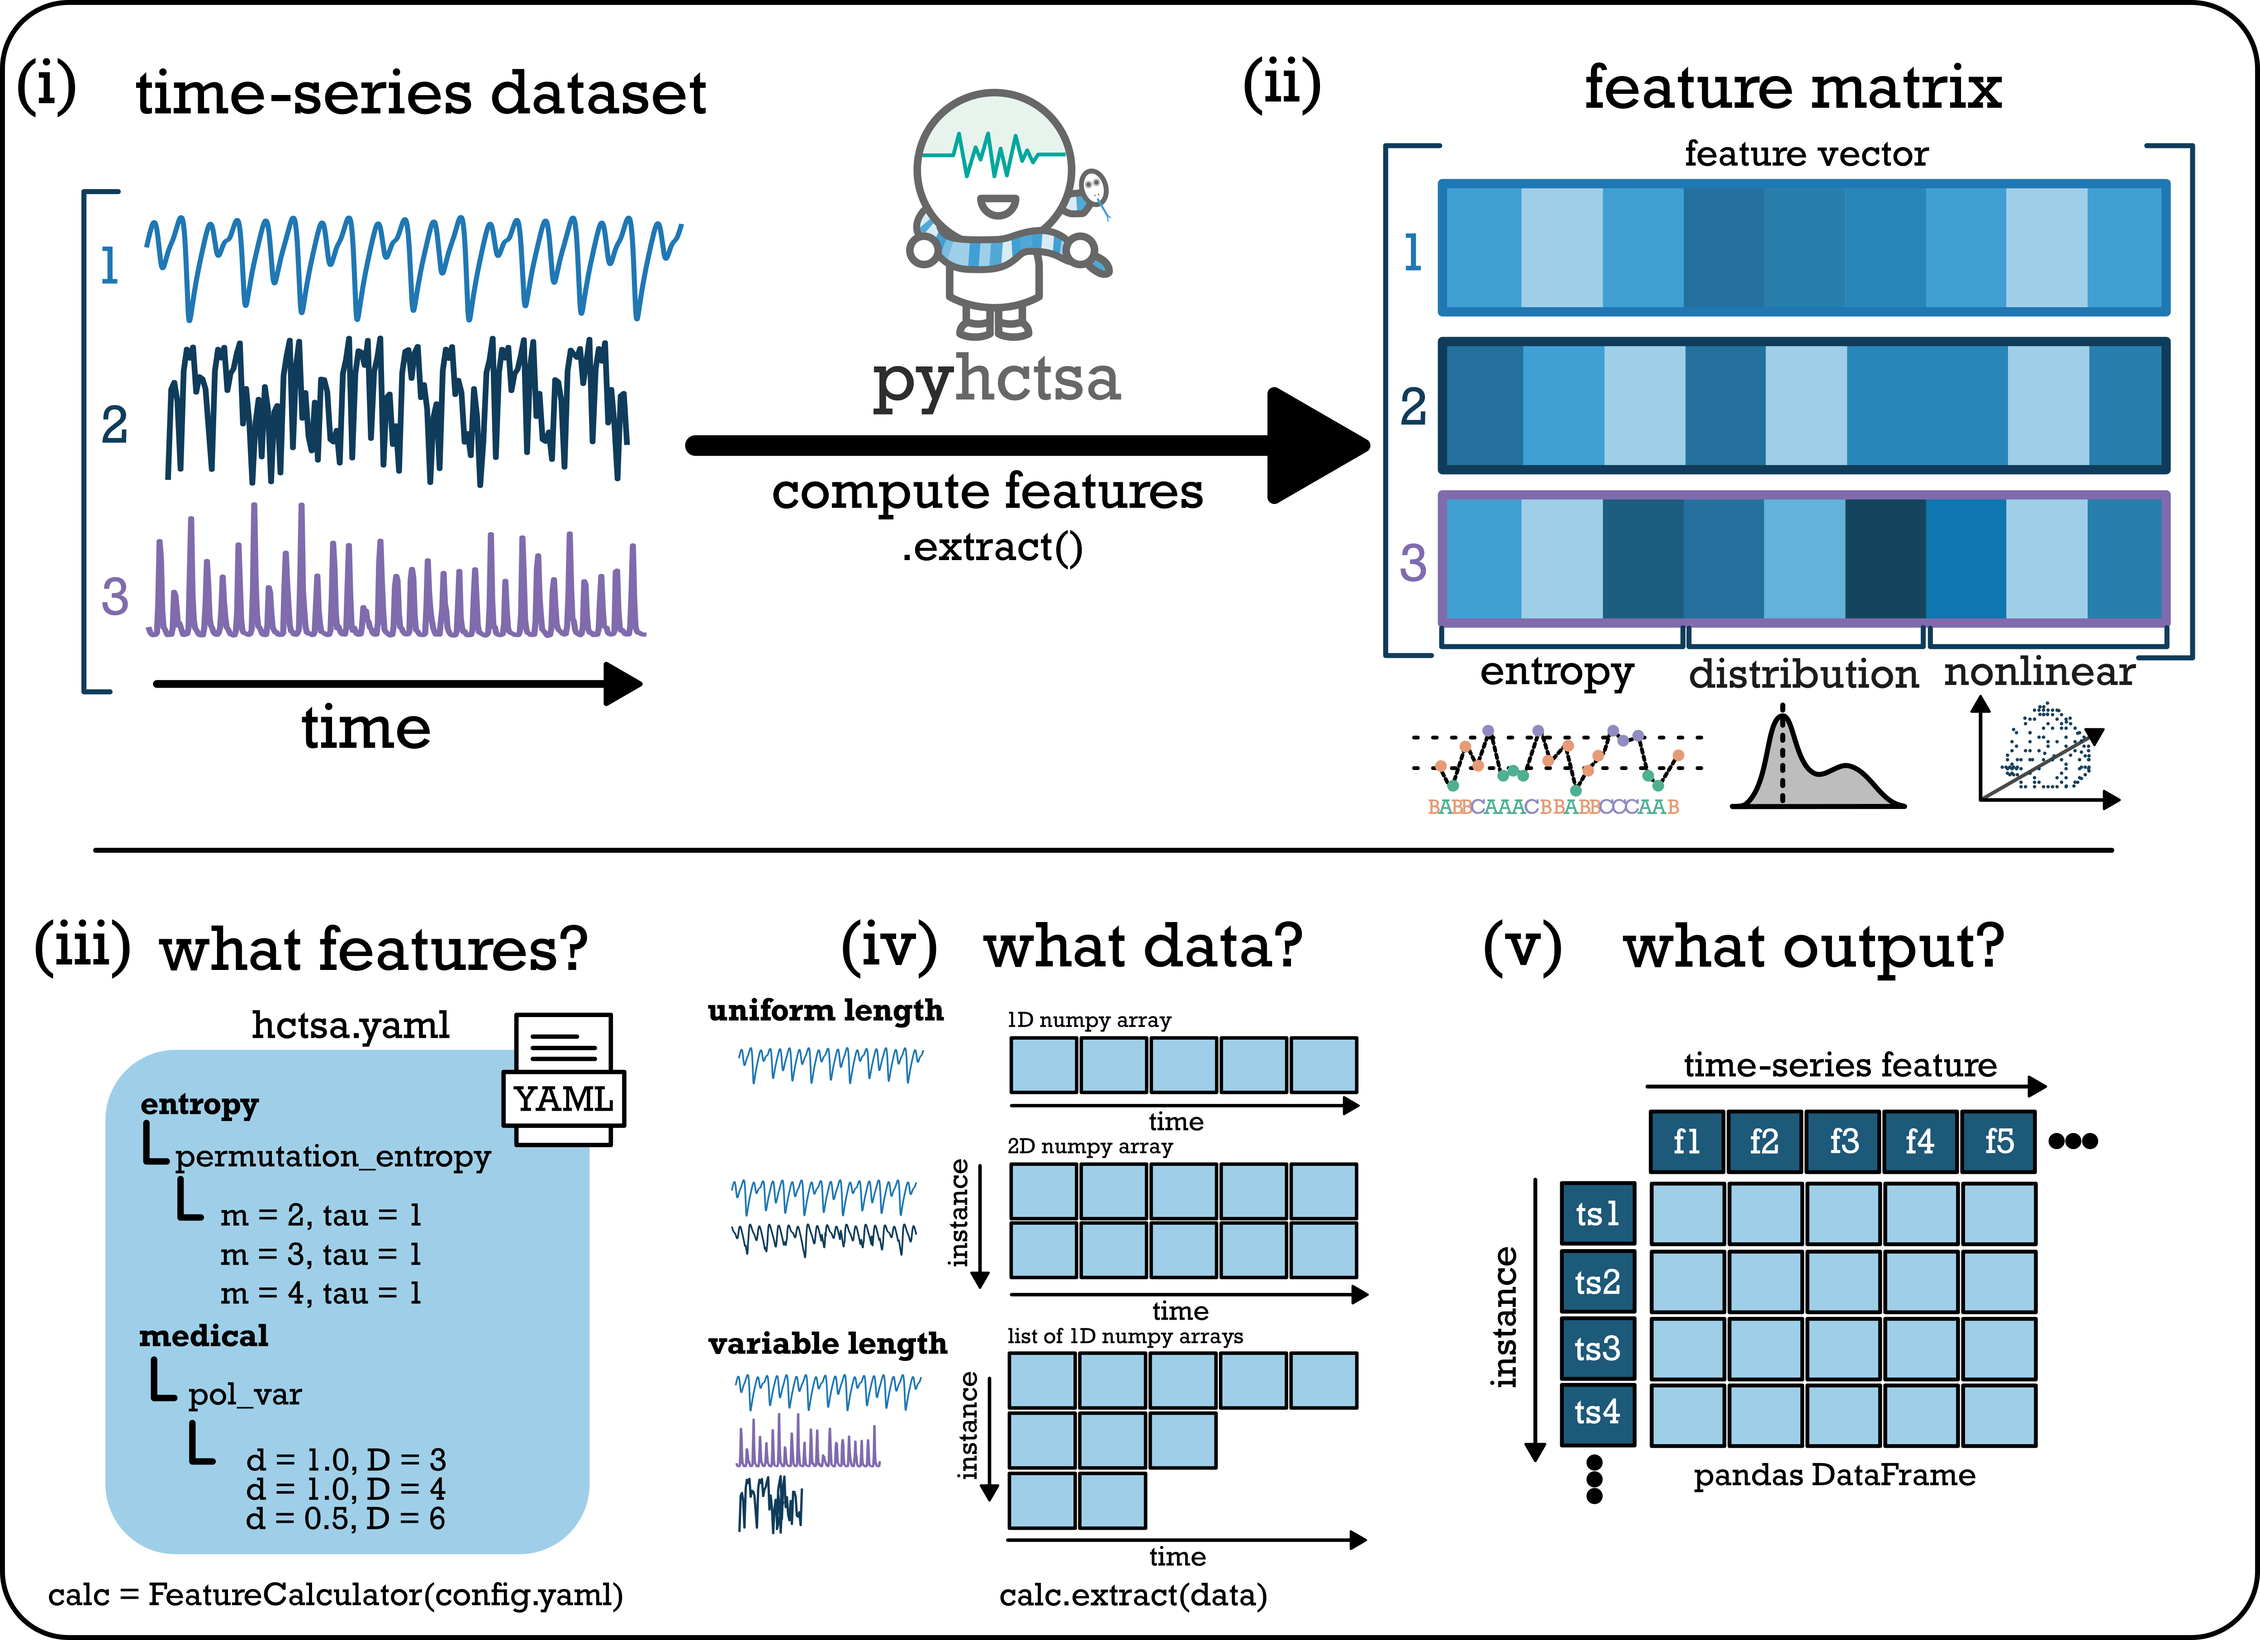
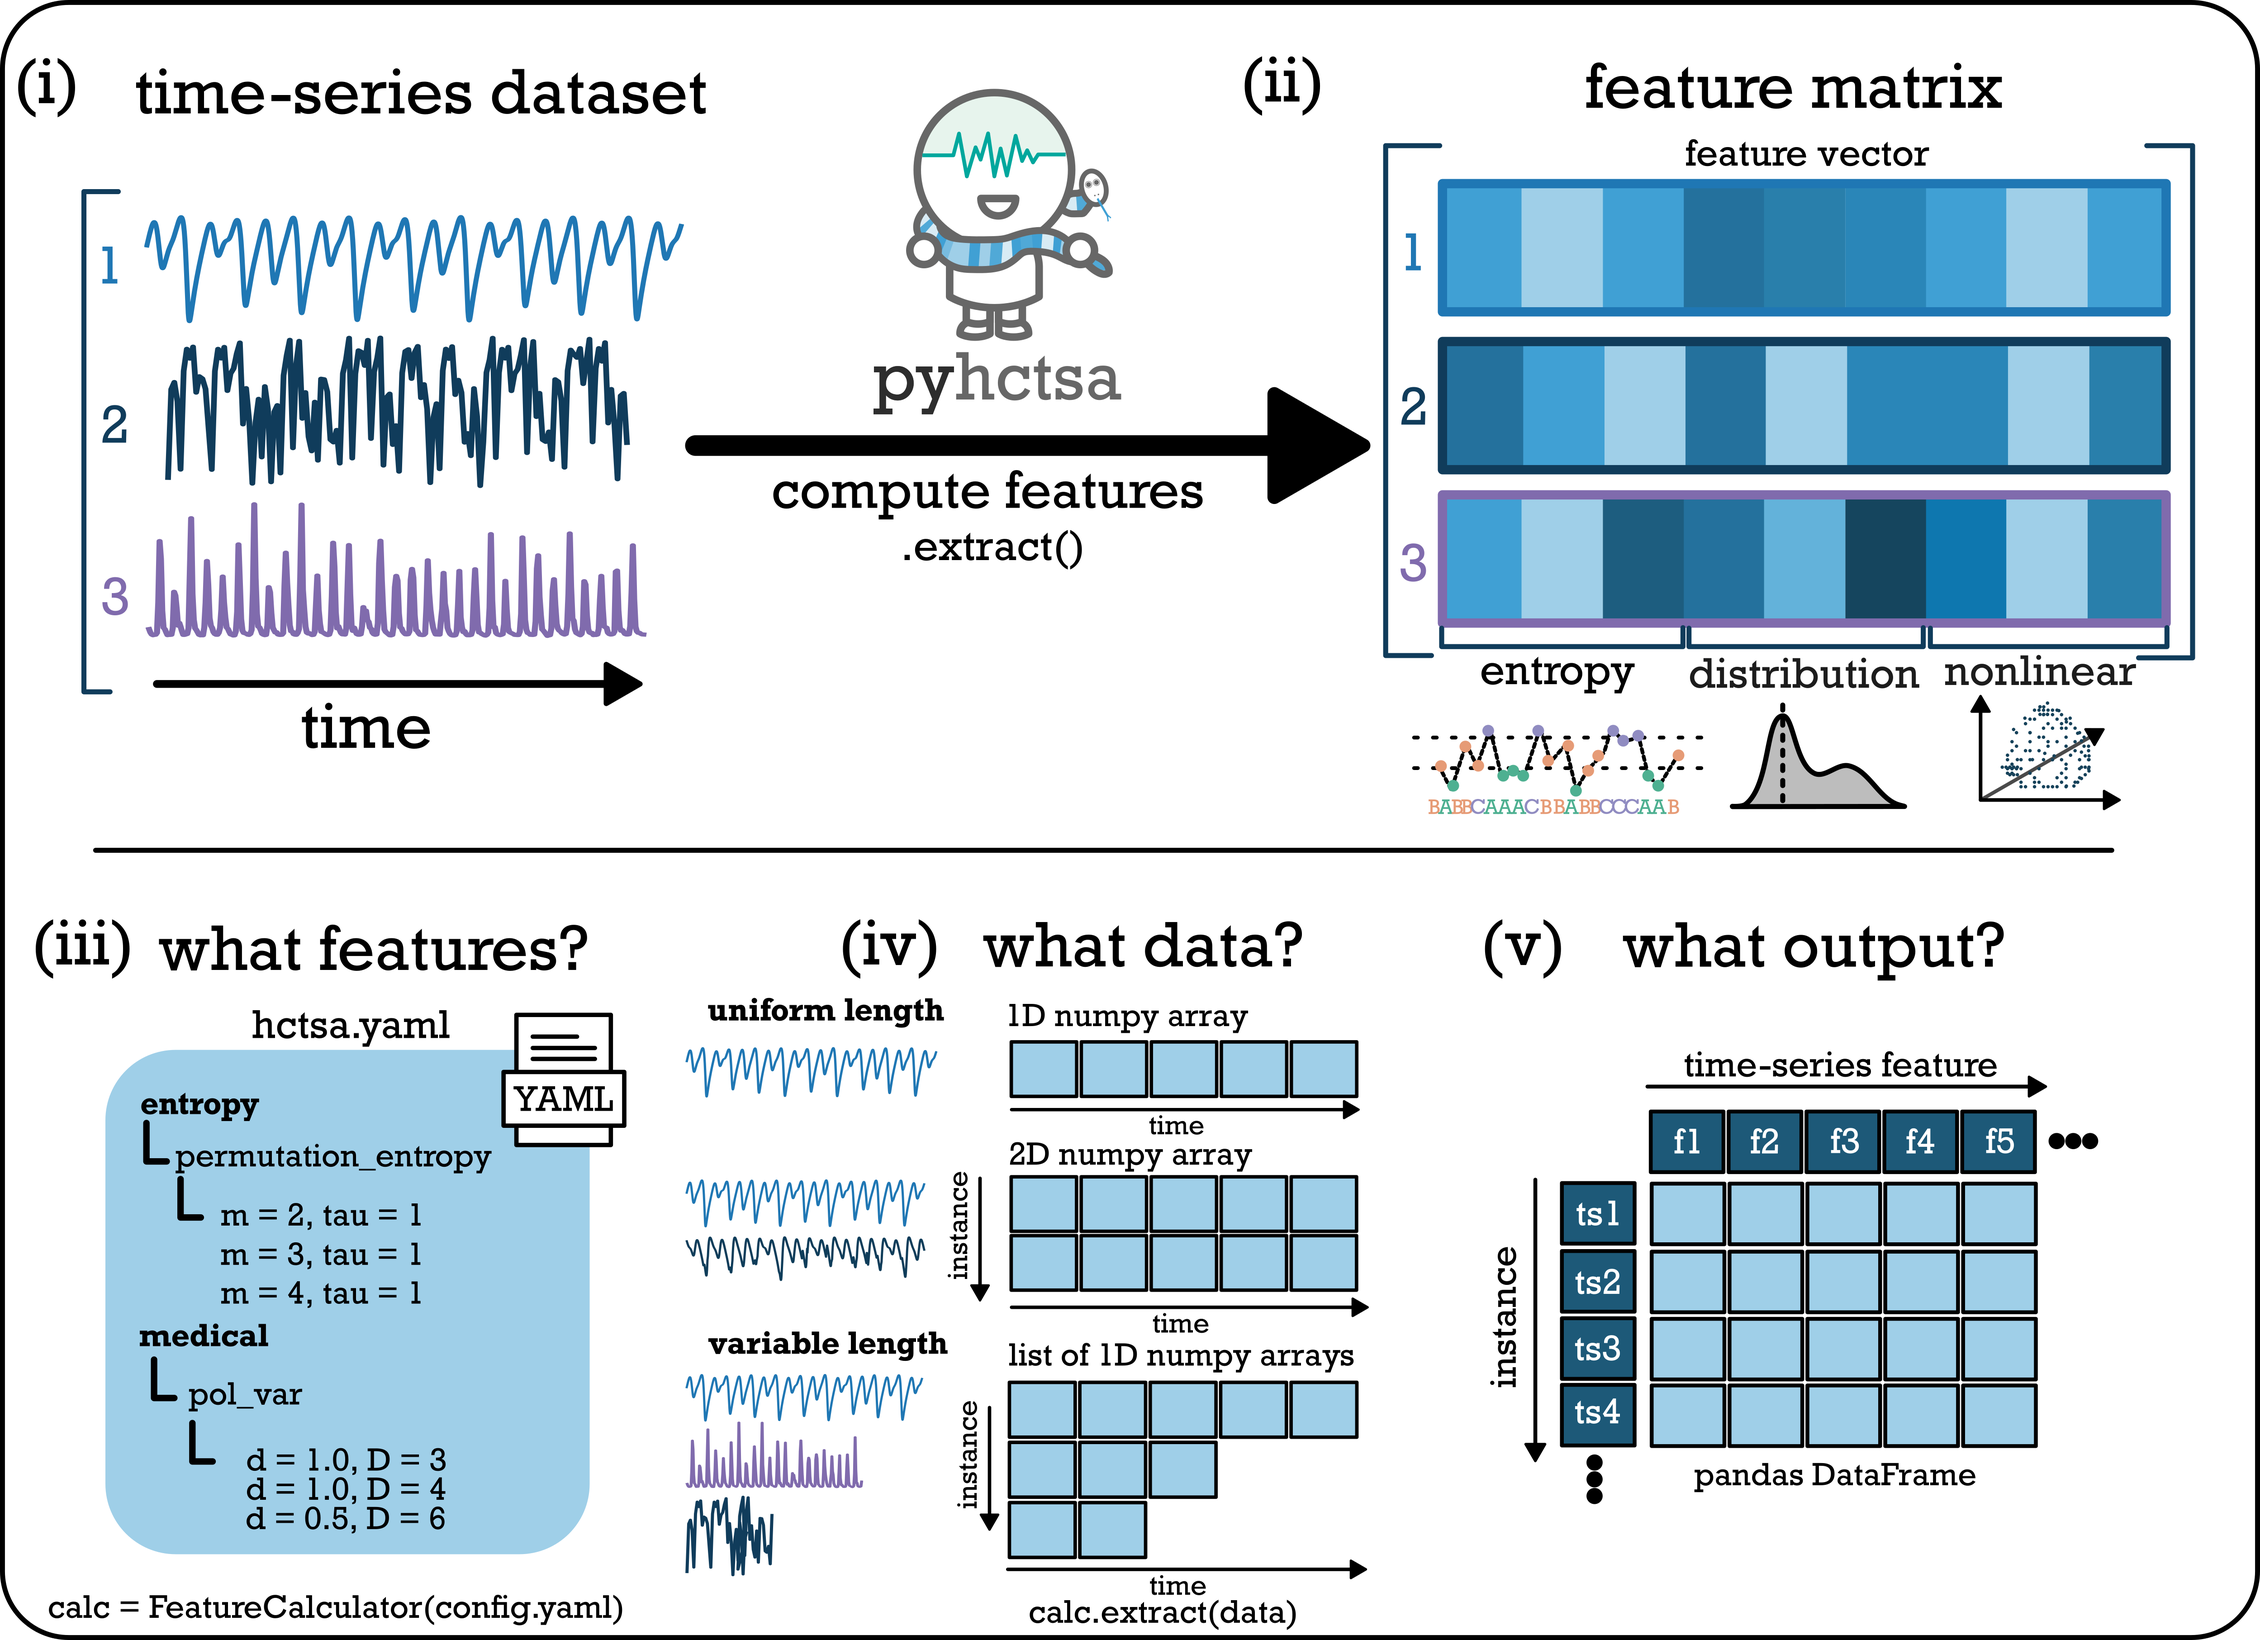
paper updates

Changed region(s): [[0.281, 0.5923, 0.6245, 0.9975], [0.0312, 0.9663, 0.281, 0.9975], [0.3122, 0.6234, 0.4059, 0.6858]]

diff --git a/paper/paper.md b/paper/paper.md
@@ -34,6 +34,11 @@ Drawing on a vast interdisciplinary literature of quantitative methods, highly c
 [A section that clearly illustrates the research purpose of the software and places it in the context of related work. This should clearly state what problem the software is designed to solve, who the target audience is, and its relation to other work.]
 [importance of time-series feature-based representations, problem with bespoke feature sets which rely on expert knowledge, motivation for comprehensive toolkits.]
 
+While existing solutions such as `Kats` [@Jiang:2022], `tsfresh` [@Christ:2018], and `tsfel` [@Barandas:2020] offer automated time-series feature extraction in Python, 
+[Kats only a handful of distributional and spectral features]
+
+
+
 Automated time-series feature extraction packages in R such as `theft` [@Henderson:2026], Python such as `Kats` [@Jiang:2022], `tsfresh` [@Christ:2018], and `tsfel` [@Barandas:2020]. 
 Python packages limited in scope, often stop at spectral features [bring in HCTSA as being better, but in MATLAB].
 
@@ -56,7 +61,7 @@ While `pyhctsa` prioritises algorithmic equivalence with the original `HCTSA` to
 
 To verify the functional equivalence of `pyhctsa`, each feature-generating function was empirically validated against its original `HCTSA` counterpart. Using a heterogeneous dataset of 1000 empirical time series [@Fulcher:2021], we systematically compared the outputs of both implementations. Similarity was quantified by calculating the Pearson correlation coefficient $r$ between resulting feature vectors. We note that because a single function often produces multiple distinct time-series features, each output feature was validated individually. To ensure ported functions were sufficiently similar, we applied a stringent inclusion criterion by retaining only those features that demonstrated strong statistical agreement ($r \geq 0.9$) with the original MATLAB implementation.
 
-![pyhctsa graphical abstract](pyhctsa_graphical_abstract.png){width=100%}
+![__Overview of the pyhctsa workflow__. __(i)__ input time-series dataset comprising one or more individual time-series instances. __(ii)__ Large-scale feature extraction transforms each time seris into a feature vector, forming a $N \times F$ feature matrix. __(iii)__ Feature sets are generated from a configuration YAML file that specifies feature function parameter combinations. __(iv)__ Supported data formats include 1D and 2D numpy arrays for time-series instances of equal length, or lists of arrays for time series of different lengths. __(v)__ Post-feature extraction, the output is stuctured as a pandas DataFrame where rows are instances and columns are extracted features.](pyhctsa_graphical_abstract.png){width=100%}
 
 # Code Example
 ```Python 
@@ -67,7 +72,7 @@ calc = FeatureCalculator() # instantiate a FeatureCalculator instance
 res = calc.extract(data) # call the extract method on your data
 ```
 
-# Roadmap and future work
+# Outlook and future developments
 [Modular architecture allows for seamless integration of new features. Contribution guidelines.]
 Any time-series feature, provided it is accompanied by a published research paper, falls within the scope for conisderation in the `pyhctsa` library.
 Clear contribution guidelines etc. here [ref].
